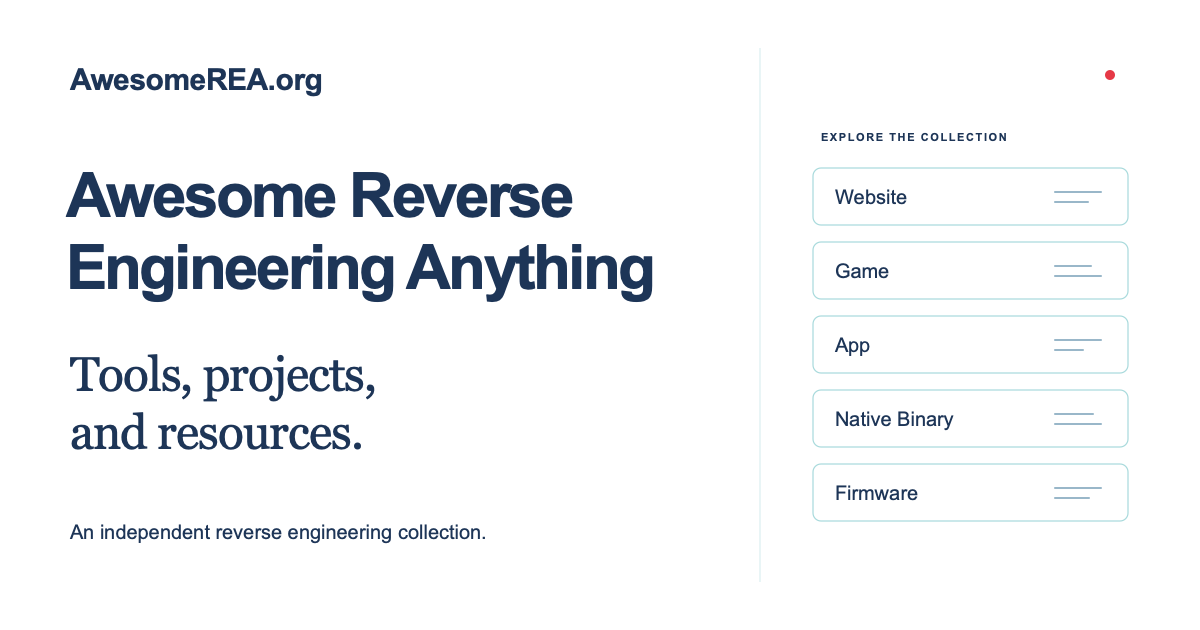
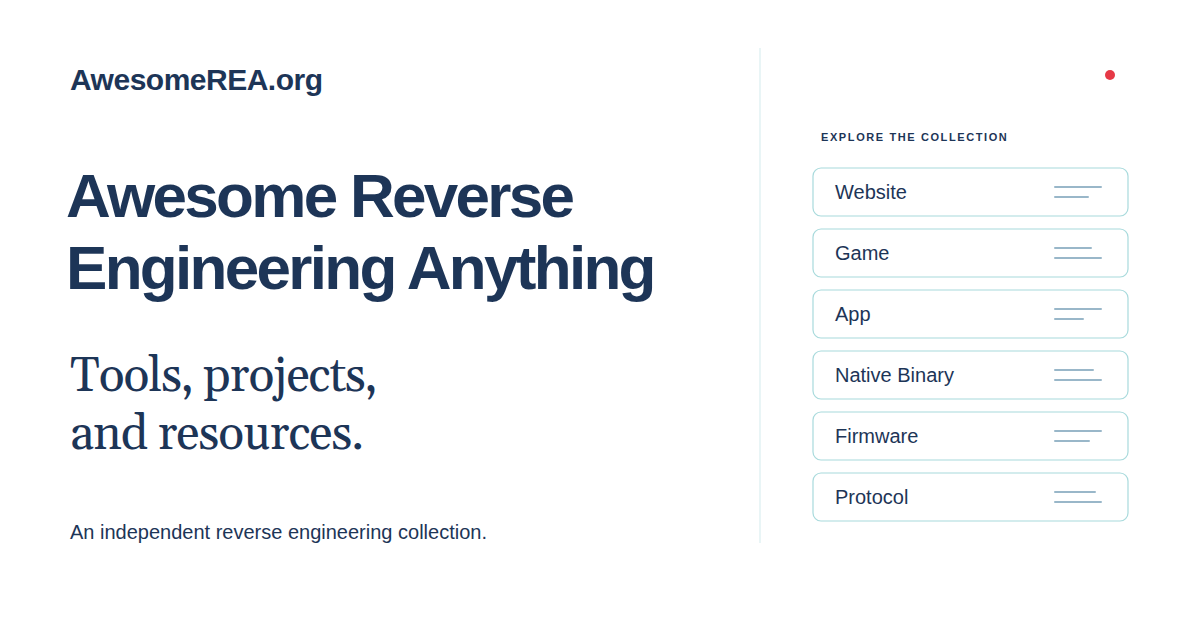
Link Chinese static pages to /zh/ and fix BibTeX output (#205)
Chinese browse, resource, about and paper pages now link home and search to
/zh/ routes, and validate_site rejects links whose ?lang= contradicts their
route. BibTeX entries use unbraced month macros, _headers serves .bib files as
UTF-8 application/x-bibtex, and the social card lists Protocol as a sixth target.

diff --git a/tests/test_static_page_links.py b/tests/test_static_page_links.py
@@ -1,0 +1,99 @@
+"""Keep static Chinese navigation on /zh/ routes and BibTeX months in macro form."""
+from copy import deepcopy
+import json
+from pathlib import Path
+import re
+import sys
+import tempfile
+import unittest
+
+ROOT = Path(__file__).resolve().parents[1]
+sys.path.insert(0, str(ROOT / 'scripts'))
+sys.path.insert(0, str(ROOT / 'tests'))
+from build_browse_pages import build_browse_pages
+from build_discovery_pages import build_discovery_pages
+from build_paper_pages import bibtex_text, build_paper_pages
+from test_source_browser import full_export
+from validate_site import Page, validate_language_links
+
+
+def dated_paper(publication_date):
+    record = deepcopy(json.loads((ROOT / 'data/papers.json').read_text())[0])
+    record.update(id='paper-month-fixture', title='Month fixture', authors=['Ada Example', 'Bo Example'],
+                  year=2020, publication_date=publication_date, venue='Example Journal',
+                  publication_status='journal-article', doi=None, arxiv_id=None,
+                  url='https://example.org/paper')
+    return record
+
+
+def navigation(html):
+    wordmark = re.search(r'<a class="wordmark" href="([^"]+)"', html)[1]
+    breadcrumb = re.search(r'<nav class="(?:browse|papers)-breadcrumbs"[^>]*><a href="([^"]+)"', html)[1]
+    return wordmark, breadcrumb
+
+
+class BibtexMonthTests(unittest.TestCase):
+    def test_month_and_day_precision_emit_unbraced_month_macros(self):
+        expected = ('@article{paper-month-fixture,\n'
+                    '  title = {{Month fixture}},\n'
+                    '  author = {{Ada Example} and {Bo Example}},\n'
+                    '  year = {2020},\n'
+                    '  url = {https://example.org/paper},\n'
+                    '  journal = {Example Journal},\n'
+                    '  month = feb\n'
+                    '}\n')
+        self.assertEqual(bibtex_text(dated_paper('2020-02')), expected)
+        # Day precision still cites only the month; BibTeX has no day field here.
+        self.assertEqual(bibtex_text(dated_paper('2020-02-27')), expected)
+        self.assertIn('  month = nov\n}', bibtex_text(dated_paper('2020-11-03')))
+
+    def test_year_only_records_have_no_month(self):
+        citation = bibtex_text(dated_paper(None))
+        self.assertNotIn('month =', citation)
+        self.assertTrue(citation.endswith('  journal = {Example Journal}\n}\n'))
+
+    def test_invalid_month_is_rejected(self):
+        for value in ('2020-00', '2020-13'):
+            with self.assertRaises(ValueError):
+                bibtex_text(dated_paper(value))
+
+
+class LanguageLinkTests(unittest.TestCase):
+    def test_validator_rejects_links_that_select_chinese_on_english_routes(self):
+        for href in ('/?lang=zh', '/?view=curated&amp;lang=zh', 'https://awesomerea.org/?lang=zh',
+                     '/browse/?lang=zh', '/zh/?lang=en'):
+            with self.subTest(href=href), self.assertRaises(AssertionError):
+                validate_language_links('/zh/about/', Page(f'<a href="{href}">首页</a>'))
+        accepted = ''.join(f'<a href="{href}">link</a>' for href in (
+            '/zh/', '/zh/?view=source-index', '/zh/?view=curated', '/?view=source-index&amp;lang=en',
+            '/', 'https://example.org/?lang=zh', '#content'))
+        validate_language_links('/zh/about/', Page(accepted))
+
+    def test_generated_chinese_pages_link_home_and_search_to_zh_routes(self):
+        resource = deepcopy(json.loads((ROOT / 'data/tool-resources.json').read_text())[0])
+        resource['requirements_zh'] = ['测试前置条件']
+        papers = json.loads((ROOT / 'data/papers.json').read_text())
+        with tempfile.TemporaryDirectory() as directory:
+            output = Path(directory)
+            build_browse_pages(output, full_export(), curated_count=1, site_url='https://awesomerea.org',
+                               repository_url='https://github.com/reacher-z/Awesome-REA', styles_href='/styles.css',
+                               browse_styles_href='/browse.css', favicon_href='/favicon.svg',
+                               social_image_href='https://awesomerea.org/social-card.png', data_revision='0' * 16)
+            build_discovery_pages(output, {'resources': [resource], 'meta': {}}, None)
+            build_paper_pages(output, papers)
+            searches = {'browse': ('/zh/?view=source-index', '/?view=source-index&amp;lang=en'),
+                        'resources': ('/zh/?view=curated', '/?view=curated&amp;lang=en')}
+            for route in ('browse/', 'browse/android/', 'resources/', 'about/', 'papers/'):
+                for language, prefix, home in (('zh', 'zh/', '/zh/'), ('en', '', '/')):
+                    with self.subTest(route=route, language=language):
+                        html = (output / prefix / route / 'index.html').read_text()
+                        self.assertEqual(navigation(html), (home, home))
+                        self.assertNotIn('lang=zh', html)
+                        validate_language_links('/' + prefix + route, Page(html))
+                        search = searches.get(route.split('/')[0])
+                        if search:
+                            self.assertIn(f'href="{search[language == "en"]}"', html)
+
+
+if __name__ == '__main__':
+    unittest.main()

diff --git a/scripts/build_repository_index.py b/scripts/build_repository_index.py
@@ -48,7 +48,7 @@ def rendered_files():
         note = ('这些是自动发现的项目，不是逐项精选或运行测试后的推荐。分类来自元数据；简介由上游描述翻译而来。星标为采集时快照，不是实时排名。'
                 if zh else 'These are automatically discovered projects, not individually curated or tested recommendations. Categories derive from metadata and descriptions from upstream text. Stars are collection-time snapshots, not live rankings.')
         summary = ([f'已读取 **{len(scanned):,}** 个仓库的 README，当前提供 **{len(records):,}** 个浏览条目，明确超出范围的 {len(scanned)-len(records)} 个条目保留在扫描数据中。自动发现的项目与上方精选资源分别维护，未逐项执行测试。', '',
-                    '[按分类在 GitHub 浏览](docs/repositories/README.zh-CN.md) · [网站搜索](https://awesomerea.org/?view=source-index&lang=zh) · [完整双语索引 JSON](https://awesomerea.org/source-index.json) · [精选目录 JSON](https://awesomerea.org/catalog.json)']
+                    '[按分类在 GitHub 浏览](docs/repositories/README.zh-CN.md) · [网站搜索](https://awesomerea.org/zh/?view=source-index) · [完整双语索引 JSON](https://awesomerea.org/source-index.json) · [精选目录 JSON](https://awesomerea.org/catalog.json)']
                    if zh else [f'**{len(scanned):,}** repository READMEs scanned; **{len(records):,}** entries available to browse. The {len(scanned)-len(records)} clearly out-of-scope entries remain in the scan data. This automatically discovered index is separate from the curated resources above and has not been individually execution-tested.', '',
                                '[Browse by category on GitHub](docs/repositories/README.md) · [Search website](https://awesomerea.org/?view=source-index&lang=en) · [Full bilingual index JSON](https://awesomerea.org/source-index.json) · [Curated catalog JSON](https://awesomerea.org/catalog.json)'])
         root_name = f'README{suffix}.md'
@@ -58,7 +58,7 @@ def rendered_files():
         before, rest = root_text.split(SUMMARY_BEGIN, 1)
         _, after = rest.split(SUMMARY_END, 1)
         files[f'../../{root_name}'] = before + SUMMARY_BEGIN + '\n' + '\n'.join(summary) + '\n' + SUMMARY_END + after
-        navigation = ('[精选资源](../../README.zh-CN.md) · [搜索网站](https://awesomerea.org/?lang=zh&view=source-index) · [下载双语 JSON](https://awesomerea.org/source-index.json) · [English](README.md)'
+        navigation = ('[精选资源](../../README.zh-CN.md) · [搜索网站](https://awesomerea.org/zh/?view=source-index) · [下载双语 JSON](https://awesomerea.org/source-index.json) · [English](README.md)'
                       if zh else '[Curated collection](../../README.md) · [Search website](https://awesomerea.org/?lang=en&view=source-index) · [Download bilingual JSON](https://awesomerea.org/source-index.json) · [简体中文](README.zh-CN.md)')
         lines = [f'# {title}', '', navigation, '', intro, '', note, '',
                  f"{'扫描日期' if zh else 'Scan date'}: **{date} UTC**.", '',

diff --git a/scripts/validate_site.py b/scripts/validate_site.py
@@ -5,7 +5,7 @@ from html.parser import HTMLParser
 import json
 from pathlib import Path
 import re
-from urllib.parse import unquote, urlsplit
+from urllib.parse import parse_qs, unquote, urljoin, urlsplit
 import xml.etree.ElementTree as ET
 
 from build_manifest import read_build_manifest
@@ -144,6 +144,17 @@ def schema_entities(value, type_name):
             yield from schema_entities(item, type_name)
 
 
+def validate_language_links(route, page):
+    """Link Chinese navigation to /zh/ routes, never to English routes with ?lang=zh."""
+    for link in page.links:
+        target = urlsplit(urljoin(ORIGIN + route, link))
+        if target.netloc != 'awesomerea.org':
+            continue
+        served = 'zh' if target.path == '/zh' or target.path.startswith('/zh/') else 'en'
+        requested = parse_qs(target.query).get('lang', [])
+        assert all(value == served for value in requested), f'Link selects a language its route does not serve on {route}: {link}'
+
+
 def validate_paper_groups(page, papers, language):
     """Check visible section membership and headings against primary targets."""
     expected = defaultdict(list)
@@ -238,6 +249,9 @@ def validate_paper_outputs(output, pages, source_papers=None):
         entries.append(entry)
     bibliography = '% Generated from source-reviewed metadata. Author names retain their listed order without inferred surname parsing.\n\n' + ''.join(entry + '\n' for entry in entries)
     assert (output / 'papers' / 'references.bib').read_text(encoding='utf-8') == bibliography, 'Combined BibTeX differs from the source bibliography'
+    headers = (output / '_headers').read_text(encoding='utf-8')
+    for route in ('/papers/references.bib', '/papers/citations/*.bib'):
+        assert re.search(rf'(?m)^{re.escape(route)}\n[ \t]+Content-Type: application/x-bibtex; charset=utf-8[ \t]*$', headers), f'BibTeX downloads require an explicit UTF-8 content type: {route}'
 
 
 def validate_artifact_links(output, pages):
@@ -320,6 +334,7 @@ def main():
             expected = {'en': ORIGIN + english, 'zh-CN': ORIGIN + '/zh' + english, 'x-default': ORIGIN + english}
             assert len(page.alternates) == 3 and dict(page.alternates) == expected, f'Incorrect reciprocal language alternatives: {parsed.path}'
         assert page.lang == ('zh-CN' if parsed.path.startswith('/zh/') else 'en')
+        validate_language_links(parsed.path, page)
         for link in page.links:
             target = urlsplit(link)
             if target.netloc not in ('', 'awesomerea.org') or target.scheme not in ('', 'https'):

diff --git a/scripts/build_discovery_pages.py b/scripts/build_discovery_pages.py
@@ -145,7 +145,7 @@ def _document(*, site_url: str, repository_url: str, path: str, language: str,
               assets: dict, icon_stylesheet: str | None, noindex: bool = False) -> str:
     zh = language == 'zh'
     locale = 'zh-CN' if zh else 'en'
-    root = '/?lang=zh' if zh else '/'
+    root = '/zh/' if zh else '/'
     english_path = path.removeprefix('/zh') if zh else path
     chinese_path = '/zh' + english_path
     counterpart = english_path if zh else chinese_path
@@ -269,7 +269,7 @@ def build_discovery_pages(site_dir: Path, catalog: dict, source_index: dict | No
             for record in groups[key]:
                 name = (record.get('name_zh') or record['name']) if zh else record['name']
                 items.append({'name': name, 'url': record['url'], 'description': record[f'description_{language}']})
-        content = f'''<div class="browse-actions"><a class="button button-primary" href="/?view=curated&amp;lang={language}">{('搜索与筛选' if zh else 'Search and filter')}</a><a class="button button-outline" href="{prefix}/browse/">{('浏览仓库' if zh else 'Browse repositories')}</a><a class="button button-outline" href="{prefix}/papers/">{('研究论文' if zh else 'Research papers')}</a><a class="browse-download" href="/catalog.json" download="awesomerea-curated-catalog.json">{('下载精选 JSON ↓' if zh else 'Download curated JSON ↓')}</a></div>
+        content = f'''<div class="browse-actions"><a class="button button-primary" href="{('/zh/?view=curated' if zh else '/?view=curated&amp;lang=en')}">{('搜索与筛选' if zh else 'Search and filter')}</a><a class="button button-outline" href="{prefix}/browse/">{('浏览仓库' if zh else 'Browse repositories')}</a><a class="button button-outline" href="{prefix}/papers/">{('研究论文' if zh else 'Research papers')}</a><a class="browse-download" href="/catalog.json" download="awesomerea-curated-catalog.json">{('下载精选 JSON ↓' if zh else 'Download curated JSON ↓')}</a></div>
 <p class="collection-note">{escape(note)}</p><nav class="browse-category-nav" aria-label="{('资源分类' if zh else 'Resource categories')}">{''.join(navigation)}</nav>{''.join(sections)}'''
         rendered[path] = _document(site_url=site_url, repository_url=repository_url, path=path, language=language, title=title, description=description, content=content, schema=collection_page_schema(site_url + path, title, description, locale, items, site_url), assets=assets, icon_stylesheet=icons.href)
         paths.append(path)

diff --git a/scripts/build_paper_pages.py b/scripts/build_paper_pages.py
@@ -25,6 +25,7 @@ TARGET_LABELS = {
     'protocol': ('Protocol inference and analysis', '协议推断与分析'),
 }
 MONTHS = ('January', 'February', 'March', 'April', 'May', 'June', 'July', 'August', 'September', 'October', 'November', 'December')
+BIBTEX_MONTHS = tuple(name[:3].lower() for name in MONTHS)
 
 
 def web_url(value: str) -> str:
@@ -84,9 +85,14 @@ def bibtex_text(paper: dict) -> str:
         fields.append(('doi', paper['doi']))
     if paper.get('arxiv_id'):
         fields.extend((('eprint', paper['arxiv_id']), ('archivePrefix', 'arXiv')))
+    lines = [f'  {key} = {{{value}}}' for key, value in fields]
     if paper.get('publication_date') and len(paper['publication_date']) >= 7:
-        fields.append(('month', paper['publication_date'][5:7]))
-    return '@' + kind + '{' + paper['id'] + ',\n' + ',\n'.join(f'  {key} = {{{value}}}' for key, value in fields) + '\n}\n'
+        month = int(paper['publication_date'][5:7])
+        if not 1 <= month <= 12:
+            raise ValueError('Invalid bibliography month')
+        # Unbraced standard macros let BibTeX styles print the month name; no day is emitted.
+        lines.append('  month = ' + BIBTEX_MONTHS[month - 1])
+    return '@' + kind + '{' + paper['id'] + ',\n' + ',\n'.join(lines) + '\n}\n'
 
 
 def scholarly_article(paper: dict, language: str) -> dict:
@@ -216,7 +222,7 @@ def build_paper_pages(
         counterpart = '/papers/' if zh else '/zh/papers/'
         canonical = site_url + path
         locale = 'zh-CN' if zh else 'en'
-        home = '/?lang=zh' if zh else '/'
+        home = '/zh/' if zh else '/'
         browse = '/zh/browse/' if zh else '/browse/'
         curated = '/zh/resources/' if zh else '/resources/'
         about = '/zh/about/' if zh else '/about/'

diff --git a/scripts/build_browse_pages.py b/scripts/build_browse_pages.py
@@ -131,8 +131,8 @@ def build_browse_pages(
         zh = language == 'zh'
         locale = 'zh-CN' if zh else 'en'
         language_index = 1 if zh else 0
-        root_link = '/?lang=zh' if zh else '/'
-        search_link = f'/?view=source-index&amp;lang={language}'
+        root_link = '/zh/' if zh else '/'
+        search_link = '/zh/?view=source-index' if zh else '/?view=source-index&amp;lang=en'
         curated_link = '/zh/resources/' if zh else '/resources/'
         scope_note = (f'共扫描 {len(scanned):,} 个仓库，提供 {len(records):,} 个浏览条目；{len(scanned)-len(records)} 个超出范围的条目仍保留在完整 JSON 中。'
                       if zh else f'{len(records):,} repositories are available to browse from {len(scanned):,} successful README scans. The {len(scanned)-len(records)} out-of-scope records remain in the full JSON.')

diff --git a/docs/website.md b/docs/website.md
@@ -32,7 +32,7 @@ Open `http://127.0.0.1:8000`. Use HTTP rather than opening `index.html` directly
 
 After source, locale, or scope edits, regenerate the [GitHub browsing directory](repositories/README.md) with `python3 scripts/build_repository_index.py` before validation. It also updates the counts and directory links in both root READMEs.
 
-The bare homepage always opens in English. Use `?lang=zh` or the language selector to open Chinese; old browser preferences do not override the default.
+The bare homepage always opens in English. Use `/zh/` or the language selector to open Chinese; old browser preferences do not override the default. Generated pages link to `/zh/` routes, while existing `?lang=zh` links still render Chinese.
 
 Before publication, check English and Chinese at desktop and 390 px widths: search, all filter types, empty results, clearing filters, loading more, prerequisite expansion, keyboard focus and the language selector. Confirm repository descriptions change language alongside the interface, including filtered and newly loaded cards. Check translated prerequisites and empty-description fallbacks, and confirm the canonical URL, social image URLs, `CNAME`, robots and sitemap agree on `awesomerea.org`.
 

diff --git a/docs/search-discovery.md b/docs/search-discovery.md
@@ -6,7 +6,7 @@ The canonical website is [AwesomeREA.org](https://awesomerea.org/); the public s
 
 ## What the site provides
 
-- `/papers/` and `/zh/papers/` provide the source-reviewed bibliography with original author names, publication status, precise dates, bilingual scope limits and BibTeX downloads. Some papers also appear in the curated catalog; the counts are not additive.
+- `/papers/` and `/zh/papers/` provide the source-reviewed bibliography with original author names, publication status, precise dates, bilingual scope limits and BibTeX downloads. The `.bib` files use standard month macros and are served as `application/x-bibtex; charset=utf-8` through [site/_headers](../site/_headers). Some papers also appear in the curated catalog; the counts are not additive.
 - `/resources/` and `/zh/resources/` contain every curated record in ordinary HTML, with its original source, review date, requirements, and a stable section link.
 - `/about/` and `/zh/about/` explain the collection, its relationship to REA, source review, and the separate automated repository index.
 - `/browse/` and `/zh/browse/` provide category pages for the automated index. Their provenance stays distinct from curated resources.

diff --git a/README.zh-CN.md b/README.zh-CN.md
@@ -394,7 +394,7 @@
 <!-- BEGIN REPOSITORY INDEX SUMMARY -->
 已读取 **3,000** 个仓库的 README，当前提供 **2,864** 个浏览条目，明确超出范围的 136 个条目保留在扫描数据中。自动发现的项目与上方精选资源分别维护，未逐项执行测试。
 
-[按分类在 GitHub 浏览](docs/repositories/README.zh-CN.md) · [网站搜索](https://awesomerea.org/?view=source-index&lang=zh) · [完整双语索引 JSON](https://awesomerea.org/source-index.json) · [精选目录 JSON](https://awesomerea.org/catalog.json)
+[按分类在 GitHub 浏览](docs/repositories/README.zh-CN.md) · [网站搜索](https://awesomerea.org/zh/?view=source-index) · [完整双语索引 JSON](https://awesomerea.org/source-index.json) · [精选目录 JSON](https://awesomerea.org/catalog.json)
 <!-- END REPOSITORY INDEX SUMMARY -->
 
 上面的资源清单依据一手来源整理。详细前置条件、原始来源与审阅日期保存在[目录数据](data/README.md)中。

diff --git a/docs/repositories/README.zh-CN.md b/docs/repositories/README.zh-CN.md
@@ -1,6 +1,6 @@
 # 仓库扫描索引
 
-[精选资源](../../README.zh-CN.md) · [搜索网站](https://awesomerea.org/?lang=zh&view=source-index) · [下载双语 JSON](https://awesomerea.org/source-index.json) · [English](README.md)
+[精选资源](../../README.zh-CN.md) · [搜索网站](https://awesomerea.org/zh/?view=source-index) · [下载双语 JSON](https://awesomerea.org/source-index.json) · [English](README.md)
 
 从 **3,000** 个已读取 README 的仓库中提供 **2,864** 个浏览条目；**136** 个明确超出范围的条目保留在原始扫描记录中。
 
